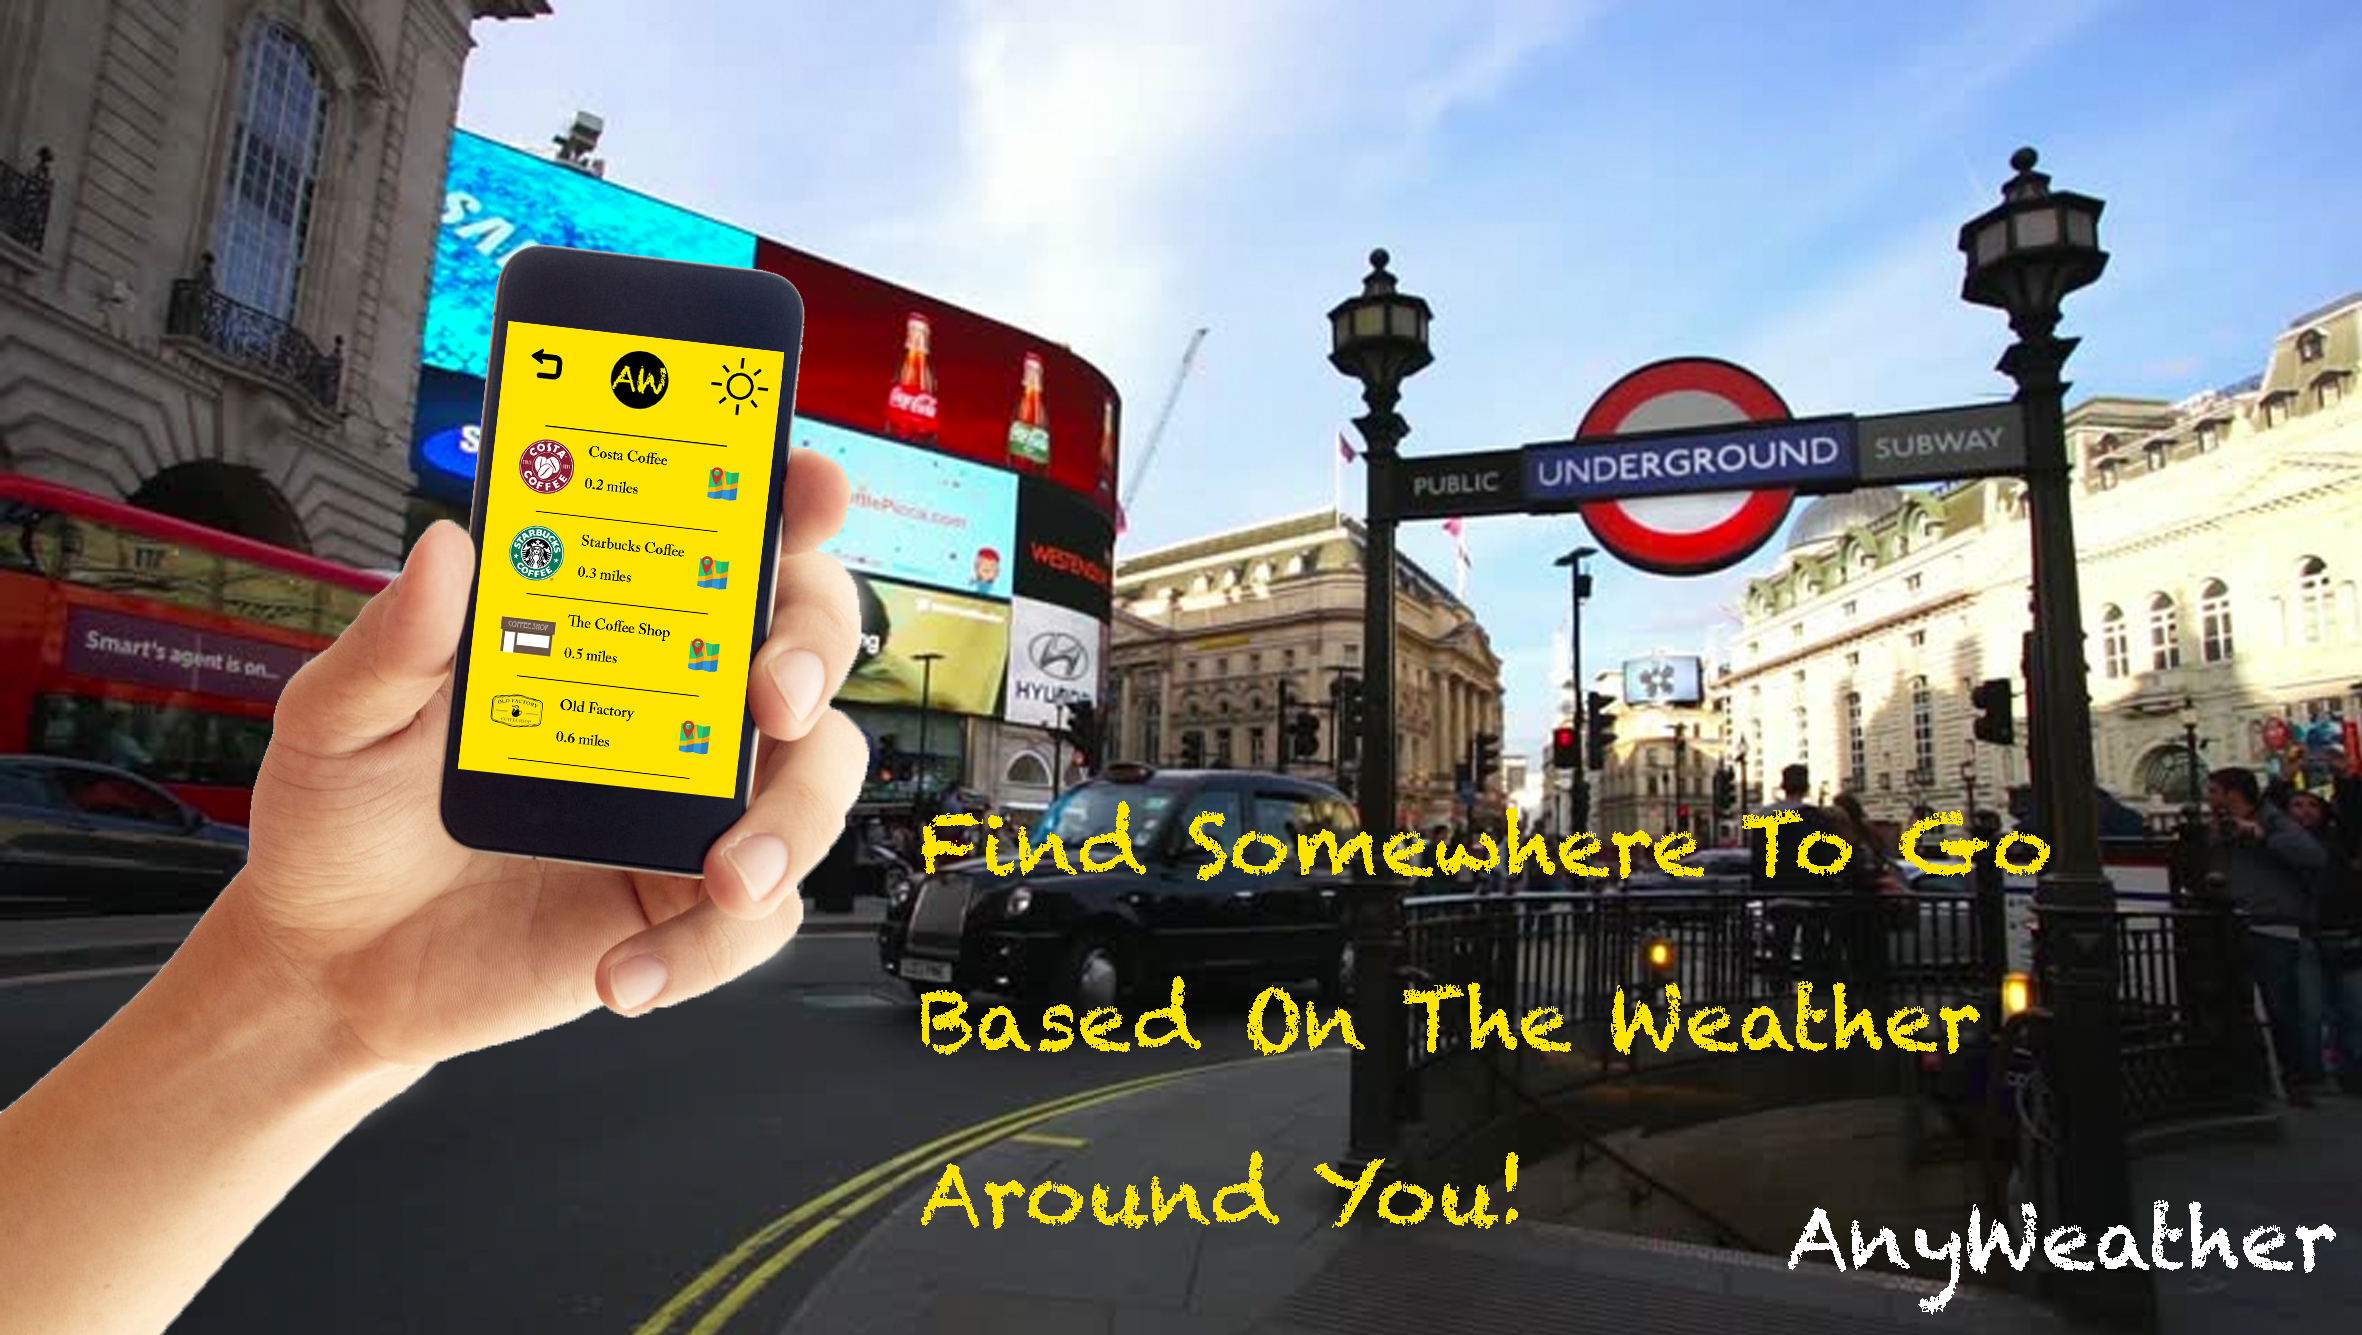
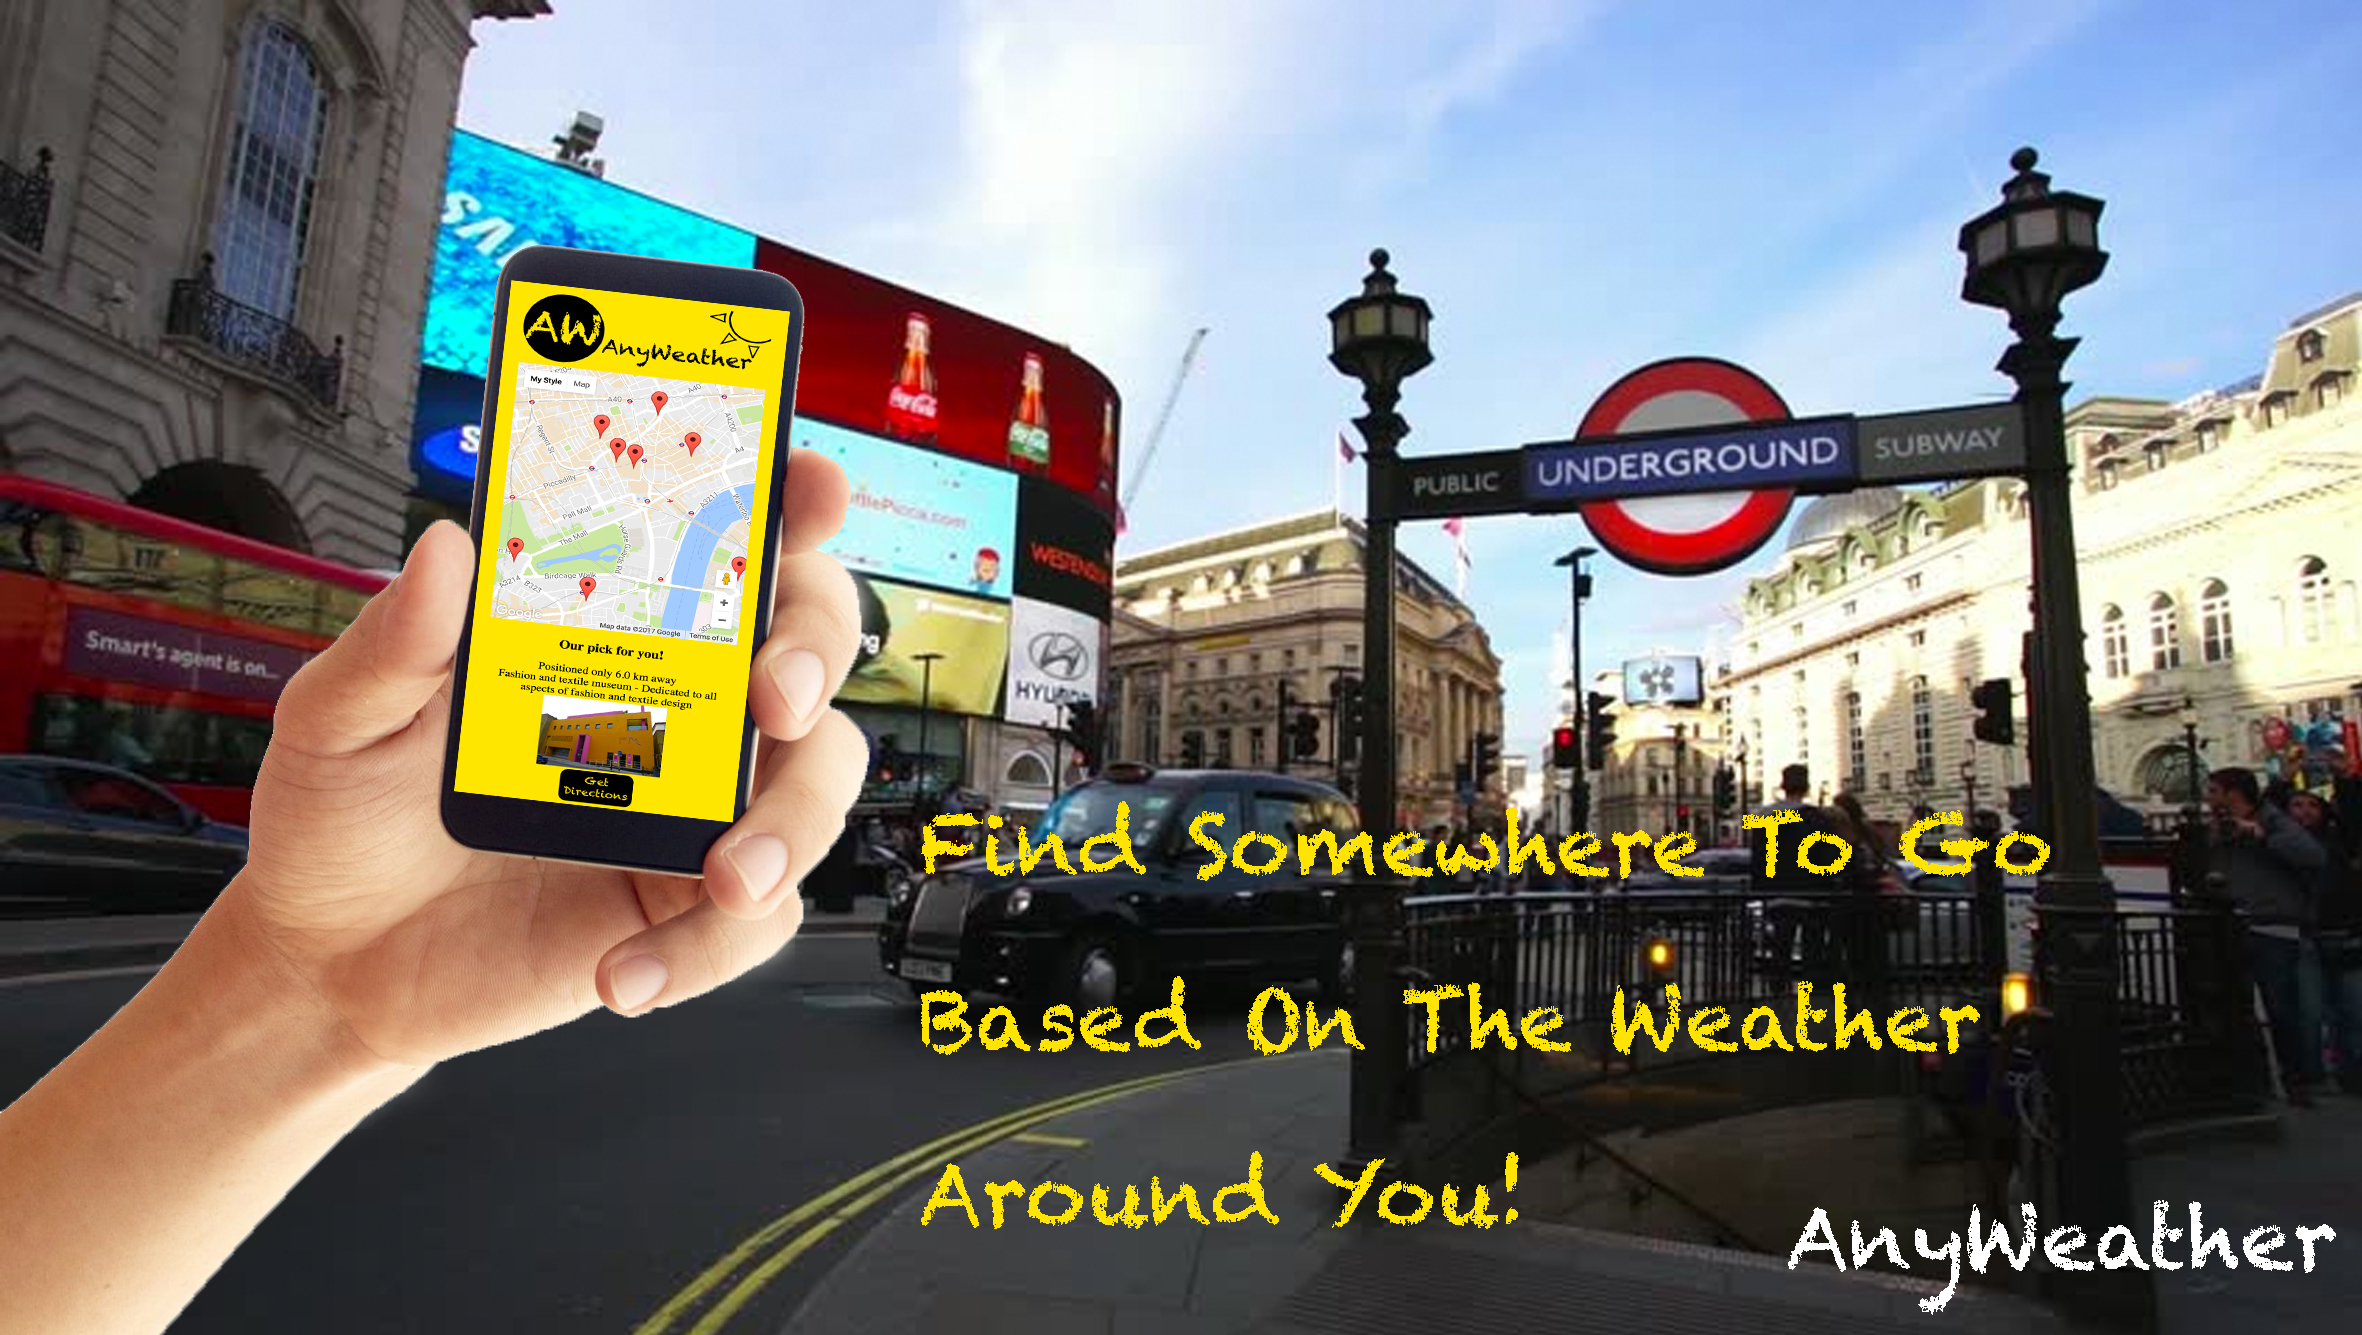
done (hopefully)

Changed region(s): [[0.1854, 0.215, 0.34, 0.6142]]

diff --git a/list.html b/list.html
@@ -173,7 +173,7 @@
             var end = p2
             var DirectionsURL = 'https://www.google.com/maps/dir/?api=1&origin=' + start + '&destination=' + end 
         console.log(DirectionsURL)
-            document.getElementById ("change").innerHTML = "Positioned only " + calcDistance(p1,p2)+ " km away "+ '<br>' +location.places +" - "+ location.about +'<br>'+  '<img src="' + location.image +'"width=50%>' +'<br>' +'<a href="' + DirectionsURL +'"role=button>'+'<button>'+ "Get Directions" +'</button>'+'</a>'        
+            document.getElementById ("change").innerHTML = "Positioned only " + calcDistance(p1,p2)+ " km away "+ '<br>' +location.places +" - "+ location.about +'<br>'+  '<img src="' + location.image +'"width=50%>' +'<br>' +'<a href="' + DirectionsURL +'"role=button>'+'<img src="media/directions.png" width="30%">'+'</a>'        
             }
               //calculates distance between two points in km's
             function calcDistance(p1, p2) {
